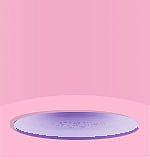
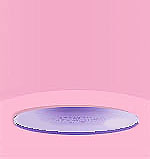
Crecimiento por tamaño

Changed region(s): [[0.0533, 0.6541, 0.9333, 0.9057]]

diff --git a/src/Criatura.js b/src/Criatura.js
@@ -126,11 +126,13 @@ import leerLibro3 from './img/leerLibro3.png';
 
 const velAnimacion = 250;  //ms
 const probNacimiento = .2;
+
 const styleImg = {
   height: '31.35vh',
-  width: '55%',
-  padding: '3vh',
+  width: 55,
+  padding: '4vh',
 }
+
 
 //Bucle
 let cont = 0;
@@ -148,7 +150,7 @@ class Criatura extends Component {
         nombre: "Maskotin",
 
         edad: 0,
-        tam: 1,
+        tam: 0,
         obesidad: 0,
         inteligencia: 0,
 
@@ -169,9 +171,10 @@ class Criatura extends Component {
         dinero: 10,
       }
 
+
       setInterval(() => { 
 
-        console.log(["Hambre: "+this.state.hambre,"Enfermedad: "+this.state.enfermedad,
+        console.log(["Tamaño: "+this.state.tam,"Hambre: "+this.state.hambre,"Enfermedad: "+this.state.enfermedad,
         "Aburrimiento: "+this.state.aburrimiento, "Obesidad: "+this.state.obesidad, "Inteligencia: "+this.state.inteligencia, "Calor: "+this.state.calor,
         "Infelicidad: "+this.state.infelicidad,"Cansancio: "+this.state.cansancio,"Cagalera: "+this.state.cagalera,"Edad: "+this.state.edad]);
         
@@ -180,6 +183,7 @@ class Criatura extends Component {
           dinero: this.state.accion == "Tranquilo" ? this.state.dinero+0.02:this.state.dinero+0.0005,
 
           //Minimos y maximos + cambios constantes
+          tam: this.state.tam<0 ? 0: this.state.tam>70 ? 70:this.state.tam,
           edad: this.state.edad<0 ? 0: this.state.edad>100 ? 100:this.state.edad+0.01,
           obesidad: this.state.obesidad<0 ? 0: this.state.obesidad>100 ? 100:this.state.obesidad,
           inteligencia: this.state.inteligencia<0 ? 0: this.state.inteligencia>100 ? 100:this.state.inteligencia,
@@ -190,12 +194,6 @@ class Criatura extends Component {
           enfermedad: this.state.enfermedad<0 ? 0:this.state.enfermedad>100 ? 100:this.state.accion == "Dormido" ? this.state.enfermedad-0.001:this.state.enfermedad+0.01,
           cagalera: this.state.cagalera<0 ? 0:this.state.cagalera>100 ? 100:this.state.accion == "Evacuando" && this.state.anim == this.state.animList.length-1 ? 0: this.state.cagalera,
           cansancio: this.state.cansancio>100 ? 100 : this.state.cansancio<0 ? 0: this.state.accion == "Dormido" ? this.state.cansancio>20 ? this.state.cansancio-3 : this.state.cansancio+(this.state.obesidad/100)+0.05 : this.state.cansancio+(this.state.obesidad/100)+0.05,
-          
-            
-              
-                
-
-
 
         }); 
       }, velAnimacion);
@@ -203,8 +201,6 @@ class Criatura extends Component {
     }
     
     render() {
-      let mas = <h4>+</h4>;
-
 
       return (
         <div className="Criatura">
@@ -309,7 +305,7 @@ class Criatura extends Component {
           })
         }
         if(tipo == "Cometa"){
-          ejecutarAccion2("Jugando con cometa",[cometa0,cometa0,cometa1,cometa2,cometa3,cometa4,cometa0,cometa0,cometa1,cometa2,cometa3,cometa4,cometa0,cometa0,cometa1,cometa2,cometa3,cometa4,cometa0,cometa0,cometa1,cometa2,cometa3,cometa4,cometa0]);
+          ejecutarAccion2("Jugando con cometa",[cometa0,cometa0,cometa1,cometa2,cometa3,cometa4,cometa0,cometa0,cometa1,cometa2,cometa3,cometa4,cometa0,cometa0,cometa1,cometa2,cometa3,cometa4,cometa0,cometa0]);
           this.setState({       
             mensajeInicial: <p>Salto, salto...<br />Con mi cometa!!</p>,
             hambre: this.state.hambre+15,
@@ -536,7 +532,7 @@ class Criatura extends Component {
       && this.state.anim == this.state.animList.length-1){ this.state.navAbierto=true; this.cambioAccion();this.state.anim=0; }
 
       this.state.img= this.state.animList[this.state.anim];
-      return <img  style={styleImg} src={this.state.img} alt= {this.state.accion} />
+      return <img  style={{width: styleImg.width*(1+((this.state.tam/100)))+"%", padding: styleImg.padding, margin: (-((7*this.state.tam)/100))+"vh"}} src={this.state.img} alt= {this.state.accion} />
       
     }
 

diff --git a/src/Criatura.sass b/src/Criatura.sass
@@ -61,10 +61,6 @@ $color3: #a8d8ea
         justify-content: center
         align-items: flex-end
 
-        img
-          height: 31.35vh
-          width: 55% 
-          padding: 3vh
     h2
         @include full($color3, 7%)
         color: $color2

diff --git a/src/Criatura.css b/src/Criatura.css
@@ -73,11 +73,6 @@
   justify-content: center;
   align-items: flex-end;
 }
-.Criatura fondo img {
-  height: 31.35vh;
-  width: 55%;
-  padding: 3vh;
-}
 .Criatura h2 {
   width: 100%;
   height: 7%;
